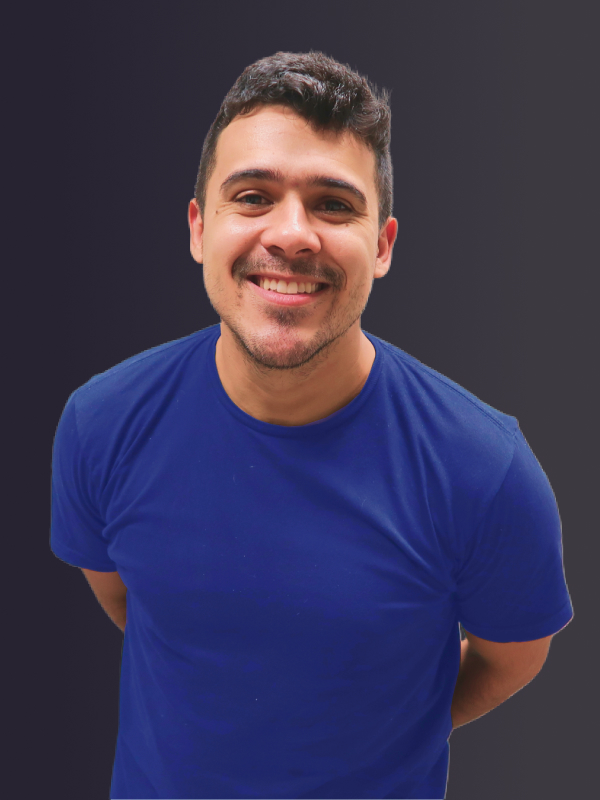
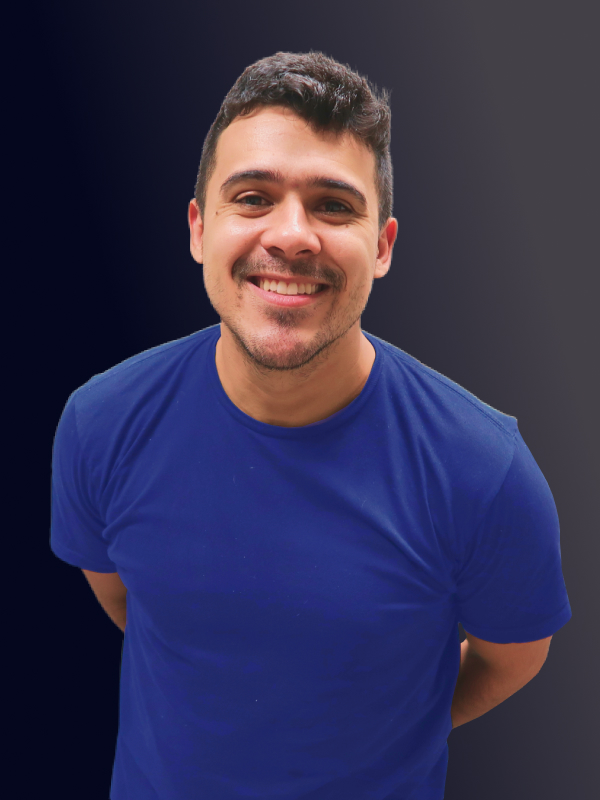
Update effects in profile pic

diff --git a/site/assets/css/styles.css b/site/assets/css/styles.css
@@ -1,1 +1,1 @@
-*{margin:0;padding:0;text-decoration:none;list-style-type:none}.primary{color:#03061b}.primary-lighten{color:#28307c}.secondary{color:#031f7a}.secondary-lighten{color:#0638e0}.silver{color:#fff}.gray{color:#676a87}.dark{color:#123}@font-face{font-family:"Lato";font-style:normal;font-weight:400;font-display:swap;src:local("Lato Regular"),local("Lato-Regular"),url(../images/fonts/S6uyw4BMUTPHjxAwXiWtFCfQ7A.woff2) format("woff2");unicode-range:U+0100-024F,U+0259,U+1E00-1EFF,U+2020,U+20A0-20AB,U+20AD-20CF,U+2113,U+2C60-2C7F,U+A720-A7FF}@font-face{font-family:"Lato";font-style:normal;font-weight:400;font-display:swap;src:local("Lato Regular"),local("Lato-Regular"),url(../images/fonts/S6uyw4BMUTPHjx4wXiWtFCc.woff2) format("woff2");unicode-range:U+0000-00FF,U+0131,U+0152-0153,U+02BB-02BC,U+02C6,U+02DA,U+02DC,U+2000-206F,U+2074,U+20AC,U+2122,U+2191,U+2193,U+2212,U+2215,U+FEFF,U+FFFD}@font-face{font-family:"Lato";font-style:normal;font-weight:700;font-display:swap;src:local("Lato Bold"),local("Lato-Bold"),url(../images/fonts/S6u9w4BMUTPHh6UVSwaPGQ3q5d0N7w.woff2) format("woff2");unicode-range:U+0100-024F,U+0259,U+1E00-1EFF,U+2020,U+20A0-20AB,U+20AD-20CF,U+2113,U+2C60-2C7F,U+A720-A7FF}@font-face{font-family:"Lato";font-style:normal;font-weight:700;font-display:swap;src:local("Lato Bold"),local("Lato-Bold"),url(../images/fonts/S6u9w4BMUTPHh6UVSwiPGQ3q5d0.woff2) format("woff2");unicode-range:U+0000-00FF,U+0131,U+0152-0153,U+02BB-02BC,U+02C6,U+02DA,U+02DC,U+2000-206F,U+2074,U+20AC,U+2122,U+2191,U+2193,U+2212,U+2215,U+FEFF,U+FFFD}html,body{font-family:"Lato",sans-serif;font-size:10px;font-weight:400;line-height:3.6em;letter-spacing:1px;color:#03061b}html *,body *{font-family:"Lato",sans-serif}h1,h2,h3,h4,h5,h6{margin:0 0 .3rem;font-weight:700;color:#03061b}p,li,a{color:#03061b;line-height:1.4em}p,li{margin-bottom:15px}s{text-decoration:line-through}abbr{border-bottom:1px dashed #676a87}a{display:inline-block;position:relative;-webkit-transition:.3s;-moz-transition:.3s;-ms-transition:.3s;-o-transition:.3s;transition:.3s}a i{-webkit-transition:.3s;-moz-transition:.3s;-ms-transition:.3s;-o-transition:.3s;transition:.3s}a.underlined::after{content:"";position:absolute;background:#28307c;top:85%;left:0;width:100%;height:1px;-webkit-transition:.3s;-moz-transition:.3s;-ms-transition:.3s;-o-transition:.3s;transition:.3s}a.underlined:hover::after,a.underlined:focus::after{background:#0638e0;top:90%}nav ul li a:hover i,nav ul li a:hover svg,nav ul li a:focus i,nav ul li a:focus svg{-webkit-transform:scale(1.4) rotate(5deg);-moz-transform:scale(1.4) rotate(5deg);-ms-transform:scale(1.4) rotate(5deg);-o-transform:scale(1.4) rotate(5deg);transform:scale(1.4) rotate(5deg)}h1{font-size:4rem;color:#03061b}h2{font-size:2.4rem;font-weight:300;color:#03061b}h3{font-size:2.4rem;color:#0638e0}h4{font-size:2.2rem}h5{font-size:2rem}h6{font-size:1.8rem}p,li,a{font-size:1.8rem}strong,b{font-weight:700}.btn{position:relative;margin:0 10px;padding:1rem 2rem;display:inline-block;text-align:center;transition:all .1s ease;border-color:#e6e7e9;border-style:dashed;border-width:2px;-webkit-border-radius:6px;-moz-border-radius:6px;-ms-border-radius:6px;-o-border-radius:6px;border-radius:6px}.btn i,.btn svg{-webkit-transition:.3s;-moz-transition:.3s;-ms-transition:.3s;-o-transition:.3s;transition:.3s}.btn:hover,.btn:focus{color:#0638e0}.btn:hover i,.btn:hover svg,.btn:focus i,.btn:focus svg{-webkit-transform:scale(1.4) rotate(10deg);-moz-transform:scale(1.4) rotate(10deg);-ms-transform:scale(1.4) rotate(10deg);-o-transform:scale(1.4) rotate(10deg);transform:scale(1.4) rotate(10deg)}.btn::after{content:"";position:absolute;width:0;bottom:2px;left:50%;margin:0 auto;box-sizing:border-box;transition:all .25s ease}.btn.btn-bordered{border:3px solid #28307c}.btn.btn-block{display:block}.btn.btn-primary{background-color:#03061b}.btn.btn-primary:hover{background-color:#123}.btn.btn-underline::after{border:0;border-bottom-width:1px;border-style:solid;border-color:#28307c;border-color:rgba(255,255,255,.1);z-index:1}.btn.btn-underline::after:hover::after,.btn.btn-underline::after:focus::after{width:100%;left:0}.btn.btn-bullet::before{content:"";background-color:#fff;background-color:rgba(255,255,255,.2);position:absolute;bottom:0;left:50%;width:5px;height:5px;margin:0 0 0 -2px;display:block;z-index:2;border-radius:50%}.btn.active{color:#0c3}.btn.active.btn-underline::after{border-color:#061}.btn.active.btn-bullet ::before{background-color:#0c3}.container{width:980px;max-width:90%;margin:0 auto}.row{margin-bottom:6rem}body{background:#fff}.language-wrapper{display:flex;flex-direction:row;justify-content:center;align-items:center}@media(max-width: 300px){.language-wrapper{flex-direction:column}}.language-wrapper .language-box{margin:0 2%;padding:0;width:48%;max-width:250px;text-align:center;-webkit-box-sizing:border-box;-moz-box-sizing:border-box;-ms-box-sizing:border-box;-o-box-sizing:border-box;box-sizing:border-box}.language-wrapper .language-box .language-item{background:#fff;margin:0;padding:30px;-webkit-box-shadow:0 6px 10px 0px rgba(0,0,0,.05);-moz-box-shadow:0 6px 10px 0px rgba(0,0,0,.05);-ms-box-shadow:0 6px 10px 0px rgba(0,0,0,.05);-o-box-shadow:0 6px 10px 0px rgba(0,0,0,.05);box-shadow:0 6px 10px 0px rgba(0,0,0,.05);-webkit-box-sizing:border-box;-moz-box-sizing:border-box;-ms-box-sizing:border-box;-o-box-sizing:border-box;box-sizing:border-box;-webkit-border-radius:10px;-moz-border-radius:10px;-ms-border-radius:10px;-o-border-radius:10px;border-radius:10px}.language-wrapper .language-box .language-item img{max-width:60px;height:auto;display:block;margin:0 auto}.supbar{width:100%;height:30px;border-bottom:1px solid #fff;background:linear-gradient(to right, #28307C, #03061B)}.supbar .language-wrapper{justify-content:flex-end}.supbar .language-wrapper .language-box{margin:0 5px;width:auto}.supbar .language-wrapper .language-box .language-item{background:none;padding:0 7px;height:30px;overflow:hidden;-webkit-box-shadow:none;-moz-box-shadow:none;-ms-box-shadow:none;-o-box-shadow:none;box-shadow:none;-webkit-border-radius:0;-moz-border-radius:0;-ms-border-radius:0;-o-border-radius:0;border-radius:0}.supbar .language-wrapper .language-box .language-item a .text{display:none}.supbar .language-wrapper .language-box .language-item img{margin-top:2px;width:25px;vertical-align:middle}.supbar .language-wrapper .language-box .language-item.active{background:#fff;background:rgba(255,255,255,.3)}.main-wrapper{width:100%;min-height:100vh}@media(max-width: 600px){.main-wrapper{overflow:hidden}}hr{border-color:rgba(255,255,255,.1);margin:1rem 0 1rem;width:100%;height:150px;position:relative}hr.with-shadow{position:relative;border:0;margin:0;overflow:visible}hr.with-shadow::before,hr.with-shadow::after{content:"";position:absolute;width:130%;height:150px;left:-15%;bottom:50px}hr.with-shadow::before{border:0;border-bottom:10px solid #fff;-webkit-box-sizing:border-box;-moz-box-sizing:border-box;-ms-box-sizing:border-box;-o-box-sizing:border-box;box-sizing:border-box;-webkit-border-radius:50%;-moz-border-radius:50%;-ms-border-radius:50%;-o-border-radius:50%;border-radius:50%}hr.with-shadow::after{-webkit-box-shadow:0 26px 25px 0px rgba(0,0,0,.05);-moz-box-shadow:0 26px 25px 0px rgba(0,0,0,.05);-ms-box-shadow:0 26px 25px 0px rgba(0,0,0,.05);-o-box-shadow:0 26px 25px 0px rgba(0,0,0,.05);box-shadow:0 26px 25px 0px rgba(0,0,0,.05);-webkit-border-radius:50%;-moz-border-radius:50%;-ms-border-radius:50%;-o-border-radius:50%;border-radius:50%}@-webkit-keyframes to-down{0%{opacity:0;-webkit-transform:translate(0px, -50px) scale(0.9)}60%{-webkit-transform:translate(0px, 2.5px) scale(1)}80%{-webkit-transform:translate(0px, -1px) scale(1)}100%{opacity:1;-webkit-transform:translate(0, 0) scale(1)}}@keyframes to-down{0%{transform:translate(0px, -50px) scale(0.9);opacity:0}60%{transform:translate(0px, 2.5px) scale(1)}80%{transform:translate(0px, -1px) scale(1)}100%{transform:translate(0, 0) scale(1);opacity:1}}@-webkit-keyframes to-up{0%{opacity:0;-webkit-transform:translate(0px, 50px) scale(0.9)}60%{-webkit-transform:translate(0px, -2.5px) scale(1)}80%{-webkit-transform:translate(0px, 1px) scale(1)}100%{opacity:1;-webkit-transform:translate(0, 0) scale(1)}}@keyframes to-up{0%{transform:translate(0px, 50px) scale(0.9);opacity:0}60%{transform:translate(0px, -2.5px) scale(1)}80%{transform:translate(0px, 1px) scale(1)}100%{transform:translate(0, 0) scale(1);opacity:1}}@-webkit-keyframes to-left{0%{opacity:0;-webkit-transform:translate(50px, 0px) scale(0.9)}60%{-webkit-transform:translate(-2.5px, 0px) scale(1)}80%{-webkit-transform:translate(1px, 0px) scale(1)}100%{opacity:1;-webkit-transform:translate(0, 0) scale(1)}}@keyframes to-left{0%{transform:translate(50px, 0px) scale(0.9);opacity:0}60%{transform:translate(-2.5px, 0px) scale(1)}80%{transform:translate(1px, 0px) scale(1)}100%{transform:translate(0, 0) scale(1);opacity:1}}@-webkit-keyframes to-right{0%{opacity:0;-webkit-transform:translate(-50px, 0px) scale(0.9)}60%{-webkit-transform:translate(2.5px, 0px) scale(1)}80%{-webkit-transform:translate(-1px, 0px) scale(1)}100%{opacity:1;-webkit-transform:translate(0, 0) scale(1)}}@keyframes to-right{0%{transform:translate(-50px, 0px) scale(0.9);opacity:0}60%{transform:translate(2.5px, 0px) scale(1)}80%{transform:translate(-1px, 0px) scale(1)}100%{transform:translate(0, 0) scale(1);opacity:1}}header{padding:90px 30px 0;overflow:hidden}header .logo{display:inline-block}header .logo img{max-width:100%;animation:to-down 1s ease 1;animation-fill-mode:forwards}header .heading{display:inline-block;vertical-align:top;margin:50px 30px 0}header .heading h1{position:relative;font-weight:bold;animation:to-right 1s ease-in-out 1;animation-fill-mode:forwards;animation-delay:.5s;opacity:0}header .heading h1 span{position:absolute;bottom:152%;left:6%;background:#fff;padding:10px 12px;font-size:1.8rem;font-weight:400;line-height:2.4rem;opacity:0;-webkit-border-radius:10px;-moz-border-radius:10px;-ms-border-radius:10px;-o-border-radius:10px;border-radius:10px;filter:drop-shadow(3px 2px 0px rgba(0, 0, 0, 0.2));animation:to-up .9s ease-in-out 1;animation-fill-mode:forwards;animation-delay:1.6s}header .heading h1 span i{margin-left:10px}header .heading h1 span::after{content:"";position:absolute;top:100%;left:30%;width:0;height:0;border-style:solid;border-width:0 15px 15px 0;border-color:rgba(0,0,0,0) #fff rgba(0,0,0,0) rgba(0,0,0,0)}header .heading .position{animation:to-right 1s ease-in-out 1;animation-fill-mode:forwards;animation-delay:.7s;opacity:0}header nav{margin-top:3rem}header nav ul li{display:inline-block;margin-left:1rem;text-transform:uppercase}header nav ul li:first-child{margin-left:0}.flex{display:flex}.flex-center{justify-content:center}.flex.dir-col{flex-direction:column}.flex.dir-row{flex-direction:row}.flex.end{justify-content:flex-end}.grid{display:grid}.main{padding:5rem 0 0}.main .title{margin-bottom:30px}.main .grid{grid-template:"wel fac" "job art";grid-gap:30px;margin-bottom:30px}.main .grid-item{padding:30px}.main .grid-item.welcome{grid-area:wel}.main .grid-item.facts{grid-area:fac}.main .grid-item.jobs{grid-area:job}.main .grid-item.art{grid-area:art;padding:0;display:flex;position:relative}.main .grid-item.art .image{width:100%;height:100%;border-radius:10px 50px 50px 50px;transition:all 1s}.main .grid-item.art .image{background-size:cover;background-position:top center -100px;background-repeat:no-repeat;filter:grayscale(50%);opacity:.9}.main .grid-item.art .mask{position:absolute;background:#fff;opacity:.3}.main .grid-item.art:hover .image,.main .grid-item.art:hover .mask{border-radius:10px 20px 20px 20px}.main .grid-item.art:hover .image{filter:grayscale(0);opacity:1;background-position:top center}.main .grid-item.art:hover .mask{opacity:.1}.main .grid-item.with-col-divisor{position:relative}.main .grid-item.with-col-divisor:after{content:"";position:absolute;top:0;left:100%;margin-left:15px;width:1px;height:100%;border-right:2px solid #e6e7e9}.main .grid-item.with-row-divisor{position:relative}.main .grid-item.with-row-divisor:before{content:"";position:absolute;left:0;bottom:100%;margin-bottom:15px;width:100%;height:1px;border-top:2px solid #e6e7e9;border-radius:100px}@media(max-width: 960px){.main .grid{grid-template:"wel" "fac" "job" "art";grid-gap:0}.main .grid .with-col-divisor:before,.main .grid .with-col-divisor:after,.main .grid .with-row-divisor:before,.main .grid .with-row-divisor:after{display:none}.main .grid .art{overflow:hidden;width:auto}.main .grid .art .image{width:100%;height:100vw;background-position:top center;margin:10px 10px 30px}.main .grid .grid-item{padding-top:45px;padding-left:15px;padding-right:15px;border-top:2px dashed #e6e7e9}.main .grid .grid-item:first-child{border:0}}.main nav ul{margin:1em 0}.main nav ul li{display:block}.main nav ul li a .list-icon{width:1em;font-size:.8em;display:inline-block;text-align:center;margin-left:30px;margin-right:15px}@media(max-width: 960px){.main nav ul li a .list-icon{margin-left:15px;margin-right:10px}}.main nav ul li a .list-icon svg{-webkit-transition:all linear .2s;-moz-transition:all linear .2s;-ms-transition:all linear .2s;-o-transition:all linear .2s;transition:all linear .2s;color:#676a87;fill:#676a87}.main nav ul li a:hover .list-icon,.main nav ul li a:hover .list-icon svg,.main nav ul li a:focus .list-icon,.main nav ul li a:focus .list-icon svg{color:#0638e0;fill:#0638e0}.main .category::before{content:"// ";color:#0638e0}footer{background:#fff;padding:30px 0 0;text-align:center}footer .title{margin:30px}footer .btn{font-size:2rem;min-width:20px;min-height:20px;line-height:1.6rem;margin:5px 2px;padding:20px;display:inline-block;-webkit-border-radius:40px;-moz-border-radius:40px;-ms-border-radius:40px;-o-border-radius:40px;border-radius:40px}footer .btn span{font-size:1.6rem}footer .flex-three{flex-wrap:wrap}footer .flex-three label{flex:1}footer form{text-align:left}footer form label{margin:0 10px;width:100%}footer form input,footer form select,footer form textarea{-webkit-appearance:none;-moz-appearance:none;appearance:none;margin:0 0 30px;padding:15px 15px;border-color:#e6e7e9;border-style:dashed;border-width:2px;min-height:64px;width:100%;font-size:1.6rem;-webkit-box-sizing:border-box;-moz-box-sizing:border-box;-ms-box-sizing:border-box;-o-box-sizing:border-box;box-sizing:border-box;-webkit-border-radius:32px;-moz-border-radius:32px;-ms-border-radius:32px;-o-border-radius:32px;border-radius:32px;-webkit-transition:.3s all;-moz-transition:.3s all;-ms-transition:.3s all;-o-transition:.3s all;transition:.3s all}footer form input:hover,footer form input:focus,footer form select:hover,footer form select:focus,footer form textarea:hover,footer form textarea:focus{outline:none}footer form input:hover,footer form select:hover,footer form textarea:hover{border-color:#28307c}footer form input:focus,footer form select:focus,footer form textarea:focus{border-color:#03061b}footer form textarea{height:180px}footer form button.btn{-webkit-appearance:none;-moz-appearance:none;appearance:none;background:#e6e7e9;color:#123;padding-left:30px;padding-right:30px;text-transform:uppercase;border:0;font-weight:700;font-size:1.8rem;letter-spacing:2px;cursor:pointer;-webkit-transition:.3s all;-moz-transition:.3s all;-ms-transition:.3s all;-o-transition:.3s all;transition:.3s all}footer form button.btn:hover,footer form button.btn:focus{background:#123;color:#fff}footer .copyright{padding:30px 0;background:#123}footer .copyright p{color:#fff}@media(max-width: 800px){header{text-align:center}header .flex{flex-direction:column}header .logo{margin:0 auto}header .heading{margin-top:60px}header .heading h1>span{left:25%}footer .flex-three label{flex:1 1 auto}}@media(max-width: 600px){html,body{font-size:8px;letter-spacing:.5px}header{padding:90px 0 0;text-align:center}header .logo{margin:0 auto}.main{padding-top:0}.main .bio ul li,.main .bio ol li{margin:10px 0}footer .title{font-size:2.4rem}footer .btn{font-size:2.2rem;line-height:2rem}footer .btn span{font-size:2rem}}@media(max-width: 480px){header .heading{margin-left:0;margin-right:0}header .heading h2{font-size:2rem}}
+*{margin:0;padding:0;text-decoration:none;list-style-type:none}.primary{color:#03061b}.primary-lighten{color:#28307c}.secondary{color:#031f7a}.secondary-lighten{color:#0638e0}.silver{color:#fff}.gray{color:#676a87}.dark{color:#123}@font-face{font-family:"Lato";font-style:normal;font-weight:400;font-display:swap;src:local("Lato Regular"),local("Lato-Regular"),url(../images/fonts/S6uyw4BMUTPHjxAwXiWtFCfQ7A.woff2) format("woff2");unicode-range:U+0100-024F,U+0259,U+1E00-1EFF,U+2020,U+20A0-20AB,U+20AD-20CF,U+2113,U+2C60-2C7F,U+A720-A7FF}@font-face{font-family:"Lato";font-style:normal;font-weight:400;font-display:swap;src:local("Lato Regular"),local("Lato-Regular"),url(../images/fonts/S6uyw4BMUTPHjx4wXiWtFCc.woff2) format("woff2");unicode-range:U+0000-00FF,U+0131,U+0152-0153,U+02BB-02BC,U+02C6,U+02DA,U+02DC,U+2000-206F,U+2074,U+20AC,U+2122,U+2191,U+2193,U+2212,U+2215,U+FEFF,U+FFFD}@font-face{font-family:"Lato";font-style:normal;font-weight:700;font-display:swap;src:local("Lato Bold"),local("Lato-Bold"),url(../images/fonts/S6u9w4BMUTPHh6UVSwaPGQ3q5d0N7w.woff2) format("woff2");unicode-range:U+0100-024F,U+0259,U+1E00-1EFF,U+2020,U+20A0-20AB,U+20AD-20CF,U+2113,U+2C60-2C7F,U+A720-A7FF}@font-face{font-family:"Lato";font-style:normal;font-weight:700;font-display:swap;src:local("Lato Bold"),local("Lato-Bold"),url(../images/fonts/S6u9w4BMUTPHh6UVSwiPGQ3q5d0.woff2) format("woff2");unicode-range:U+0000-00FF,U+0131,U+0152-0153,U+02BB-02BC,U+02C6,U+02DA,U+02DC,U+2000-206F,U+2074,U+20AC,U+2122,U+2191,U+2193,U+2212,U+2215,U+FEFF,U+FFFD}html,body{font-family:"Lato",sans-serif;font-size:10px;font-weight:400;line-height:3.6em;letter-spacing:1px;color:#03061b}html *,body *{font-family:"Lato",sans-serif}h1,h2,h3,h4,h5,h6{margin:0 0 .3rem;font-weight:700;color:#03061b}p,li,a{color:#03061b;line-height:1.4em}p,li{margin-bottom:15px}s{text-decoration:line-through}abbr{border-bottom:1px dashed #676a87}a{display:inline-block;position:relative;-webkit-transition:.3s;-moz-transition:.3s;-ms-transition:.3s;-o-transition:.3s;transition:.3s}a i{-webkit-transition:.3s;-moz-transition:.3s;-ms-transition:.3s;-o-transition:.3s;transition:.3s}a.underlined::after{content:"";position:absolute;background:#28307c;top:85%;left:0;width:100%;height:1px;-webkit-transition:.3s;-moz-transition:.3s;-ms-transition:.3s;-o-transition:.3s;transition:.3s}a.underlined:hover::after,a.underlined:focus::after{background:#0638e0;top:90%}nav ul li a:hover i,nav ul li a:hover svg,nav ul li a:focus i,nav ul li a:focus svg{-webkit-transform:scale(1.4) rotate(5deg);-moz-transform:scale(1.4) rotate(5deg);-ms-transform:scale(1.4) rotate(5deg);-o-transform:scale(1.4) rotate(5deg);transform:scale(1.4) rotate(5deg)}h1{font-size:4rem;color:#03061b}h2{font-size:2.4rem;font-weight:300;color:#03061b}h3{font-size:2.4rem;color:#0638e0}h4{font-size:2.2rem}h5{font-size:2rem}h6{font-size:1.8rem}p,li,a{font-size:1.8rem}strong,b{font-weight:700}.btn{position:relative;margin:0 10px;padding:1rem 2rem;display:inline-block;text-align:center;transition:all .1s ease;border-color:#e6e7e9;border-style:dashed;border-width:2px;-webkit-border-radius:6px;-moz-border-radius:6px;-ms-border-radius:6px;-o-border-radius:6px;border-radius:6px}.btn i,.btn svg{-webkit-transition:.3s;-moz-transition:.3s;-ms-transition:.3s;-o-transition:.3s;transition:.3s}.btn:hover,.btn:focus{color:#0638e0}.btn:hover i,.btn:hover svg,.btn:focus i,.btn:focus svg{-webkit-transform:scale(1.4) rotate(10deg);-moz-transform:scale(1.4) rotate(10deg);-ms-transform:scale(1.4) rotate(10deg);-o-transform:scale(1.4) rotate(10deg);transform:scale(1.4) rotate(10deg)}.btn::after{content:"";position:absolute;width:0;bottom:2px;left:50%;margin:0 auto;box-sizing:border-box;transition:all .25s ease}.btn.btn-bordered{border:3px solid #28307c}.btn.btn-block{display:block}.btn.btn-primary{background-color:#03061b}.btn.btn-primary:hover{background-color:#123}.btn.btn-underline::after{border:0;border-bottom-width:1px;border-style:solid;border-color:#28307c;border-color:rgba(255,255,255,.1);z-index:1}.btn.btn-underline::after:hover::after,.btn.btn-underline::after:focus::after{width:100%;left:0}.btn.btn-bullet::before{content:"";background-color:#fff;background-color:rgba(255,255,255,.2);position:absolute;bottom:0;left:50%;width:5px;height:5px;margin:0 0 0 -2px;display:block;z-index:2;border-radius:50%}.btn.active{color:#0c3}.btn.active.btn-underline::after{border-color:#061}.btn.active.btn-bullet ::before{background-color:#0c3}.container{width:980px;max-width:90%;margin:0 auto}.row{margin-bottom:6rem}body{background:#fff}.language-wrapper{display:flex;flex-direction:row;justify-content:center;align-items:center}@media(max-width: 300px){.language-wrapper{flex-direction:column}}.language-wrapper .language-box{margin:0 2%;padding:0;width:48%;max-width:250px;text-align:center;-webkit-box-sizing:border-box;-moz-box-sizing:border-box;-ms-box-sizing:border-box;-o-box-sizing:border-box;box-sizing:border-box}.language-wrapper .language-box .language-item{background:#fff;margin:0;padding:30px;-webkit-box-shadow:0 6px 10px 0px rgba(0,0,0,.05);-moz-box-shadow:0 6px 10px 0px rgba(0,0,0,.05);-ms-box-shadow:0 6px 10px 0px rgba(0,0,0,.05);-o-box-shadow:0 6px 10px 0px rgba(0,0,0,.05);box-shadow:0 6px 10px 0px rgba(0,0,0,.05);-webkit-box-sizing:border-box;-moz-box-sizing:border-box;-ms-box-sizing:border-box;-o-box-sizing:border-box;box-sizing:border-box;-webkit-border-radius:10px;-moz-border-radius:10px;-ms-border-radius:10px;-o-border-radius:10px;border-radius:10px}.language-wrapper .language-box .language-item img{max-width:60px;height:auto;display:block;margin:0 auto}.supbar{width:100%;height:30px;border-bottom:1px solid #fff;background:linear-gradient(to right, #28307C, #03061B)}.supbar .language-wrapper{justify-content:flex-end}.supbar .language-wrapper .language-box{margin:0 5px;width:auto}.supbar .language-wrapper .language-box .language-item{background:none;padding:0 7px;height:30px;overflow:hidden;-webkit-box-shadow:none;-moz-box-shadow:none;-ms-box-shadow:none;-o-box-shadow:none;box-shadow:none;-webkit-border-radius:0;-moz-border-radius:0;-ms-border-radius:0;-o-border-radius:0;border-radius:0}.supbar .language-wrapper .language-box .language-item a .text{display:none}.supbar .language-wrapper .language-box .language-item img{margin-top:2px;width:25px;vertical-align:middle}.supbar .language-wrapper .language-box .language-item.active{background:#fff;background:rgba(255,255,255,.3)}.main-wrapper{width:100%;min-height:100vh}@media(max-width: 600px){.main-wrapper{overflow:hidden}}hr{border-color:rgba(255,255,255,.1);margin:1rem 0 1rem;width:100%;height:150px;position:relative}hr.with-shadow{position:relative;border:0;margin:0;overflow:visible}hr.with-shadow::before,hr.with-shadow::after{content:"";position:absolute;width:130%;height:150px;left:-15%;bottom:50px}hr.with-shadow::before{border:0;border-bottom:10px solid #fff;-webkit-box-sizing:border-box;-moz-box-sizing:border-box;-ms-box-sizing:border-box;-o-box-sizing:border-box;box-sizing:border-box;-webkit-border-radius:50%;-moz-border-radius:50%;-ms-border-radius:50%;-o-border-radius:50%;border-radius:50%}hr.with-shadow::after{-webkit-box-shadow:0 26px 25px 0px rgba(0,0,0,.05);-moz-box-shadow:0 26px 25px 0px rgba(0,0,0,.05);-ms-box-shadow:0 26px 25px 0px rgba(0,0,0,.05);-o-box-shadow:0 26px 25px 0px rgba(0,0,0,.05);box-shadow:0 26px 25px 0px rgba(0,0,0,.05);-webkit-border-radius:50%;-moz-border-radius:50%;-ms-border-radius:50%;-o-border-radius:50%;border-radius:50%}@-webkit-keyframes to-down{0%{opacity:0;-webkit-transform:translate(0px, -50px) scale(0.9)}60%{-webkit-transform:translate(0px, 2.5px) scale(1)}80%{-webkit-transform:translate(0px, -1px) scale(1)}100%{opacity:1;-webkit-transform:translate(0, 0) scale(1)}}@keyframes to-down{0%{transform:translate(0px, -50px) scale(0.9);opacity:0}60%{transform:translate(0px, 2.5px) scale(1)}80%{transform:translate(0px, -1px) scale(1)}100%{transform:translate(0, 0) scale(1);opacity:1}}@-webkit-keyframes to-up{0%{opacity:0;-webkit-transform:translate(0px, 50px) scale(0.9)}60%{-webkit-transform:translate(0px, -2.5px) scale(1)}80%{-webkit-transform:translate(0px, 1px) scale(1)}100%{opacity:1;-webkit-transform:translate(0, 0) scale(1)}}@keyframes to-up{0%{transform:translate(0px, 50px) scale(0.9);opacity:0}60%{transform:translate(0px, -2.5px) scale(1)}80%{transform:translate(0px, 1px) scale(1)}100%{transform:translate(0, 0) scale(1);opacity:1}}@-webkit-keyframes to-left{0%{opacity:0;-webkit-transform:translate(50px, 0px) scale(0.9)}60%{-webkit-transform:translate(-2.5px, 0px) scale(1)}80%{-webkit-transform:translate(1px, 0px) scale(1)}100%{opacity:1;-webkit-transform:translate(0, 0) scale(1)}}@keyframes to-left{0%{transform:translate(50px, 0px) scale(0.9);opacity:0}60%{transform:translate(-2.5px, 0px) scale(1)}80%{transform:translate(1px, 0px) scale(1)}100%{transform:translate(0, 0) scale(1);opacity:1}}@-webkit-keyframes to-right{0%{opacity:0;-webkit-transform:translate(-50px, 0px) scale(0.9)}60%{-webkit-transform:translate(2.5px, 0px) scale(1)}80%{-webkit-transform:translate(-1px, 0px) scale(1)}100%{opacity:1;-webkit-transform:translate(0, 0) scale(1)}}@keyframes to-right{0%{transform:translate(-50px, 0px) scale(0.9);opacity:0}60%{transform:translate(2.5px, 0px) scale(1)}80%{transform:translate(-1px, 0px) scale(1)}100%{transform:translate(0, 0) scale(1);opacity:1}}header{padding:90px 30px 0;overflow:hidden}header .logo{display:inline-block}header .logo img{max-width:100%;animation:to-down 1s ease 1;animation-fill-mode:forwards}header .heading{display:inline-block;vertical-align:top;margin:50px 30px 0}header .heading h1{position:relative;font-weight:bold;animation:to-right 1s ease-in-out 1;animation-fill-mode:forwards;animation-delay:.5s;opacity:0}header .heading h1 span{position:absolute;bottom:152%;left:6%;background:#fff;padding:10px 12px;font-size:1.8rem;font-weight:400;line-height:2.4rem;opacity:0;-webkit-border-radius:10px;-moz-border-radius:10px;-ms-border-radius:10px;-o-border-radius:10px;border-radius:10px;filter:drop-shadow(3px 2px 0px rgba(0, 0, 0, 0.2));animation:to-up .9s ease-in-out 1;animation-fill-mode:forwards;animation-delay:1.6s}header .heading h1 span i{margin-left:10px}header .heading h1 span::after{content:"";position:absolute;top:100%;left:30%;width:0;height:0;border-style:solid;border-width:0 15px 15px 0;border-color:rgba(0,0,0,0) #fff rgba(0,0,0,0) rgba(0,0,0,0)}header .heading .position{animation:to-right 1s ease-in-out 1;animation-fill-mode:forwards;animation-delay:.7s;opacity:0}header nav{margin-top:3rem}header nav ul li{display:inline-block;margin-left:1rem;text-transform:uppercase}header nav ul li:first-child{margin-left:0}.flex{display:flex}.flex-center{justify-content:center}.flex.dir-col{flex-direction:column}.flex.dir-row{flex-direction:row}.flex.end{justify-content:flex-end}.grid{display:grid}.main{padding:5rem 0 0}.main .title{margin-bottom:30px}.main .grid{grid-template:"wel fac" "job art";grid-gap:30px;margin-bottom:30px}.main .grid-item{padding:30px}.main .grid-item.welcome{grid-area:wel}.main .grid-item.facts{grid-area:fac}.main .grid-item.jobs{grid-area:job}.main .grid-item.art{grid-area:art;border-radius:16px;padding:0;display:flex;position:relative}.main .grid-item.art .image{width:100%;height:100%;border-radius:32px;transition:all .6s;background-size:cover;background-position:top center;background-repeat:no-repeat;filter:contrast(0.8) drop-shadow(0 0 16px rgba(3, 6, 27, 0.3));transform:scale(0.9)}.main .grid-item.art:hover .image{filter:contrast(1) drop-shadow(0 0 160px #03061B);transform:scale(1);border-radius:16px}.main .grid-item.with-col-divisor{position:relative}.main .grid-item.with-col-divisor:after{content:"";position:absolute;top:0;left:100%;margin-left:15px;width:1px;height:100%;border-right:2px solid #e6e7e9}.main .grid-item.with-row-divisor{position:relative}.main .grid-item.with-row-divisor:before{content:"";position:absolute;left:0;bottom:100%;margin-bottom:15px;width:100%;height:1px;border-top:2px solid #e6e7e9;border-radius:100px}@media(max-width: 960px){.main .grid{grid-template:"wel" "fac" "job" "art";grid-gap:0}.main .grid .with-col-divisor:before,.main .grid .with-col-divisor:after,.main .grid .with-row-divisor:before,.main .grid .with-row-divisor:after{display:none}.main .grid .art{overflow:hidden;width:auto}.main .grid .art .image{width:100%;height:100vw;background-position:top center;margin:10px 10px 30px}.main .grid .grid-item{padding-top:45px;padding-left:15px;padding-right:15px;border-top:2px dashed #e6e7e9}.main .grid .grid-item:first-child{border:0}}.main nav ul{margin:1em 0}.main nav ul li{display:block}.main nav ul li a .list-icon{width:1em;font-size:.8em;display:inline-block;text-align:center;margin-left:30px;margin-right:15px}@media(max-width: 960px){.main nav ul li a .list-icon{margin-left:15px;margin-right:10px}}.main nav ul li a .list-icon svg{-webkit-transition:all linear .2s;-moz-transition:all linear .2s;-ms-transition:all linear .2s;-o-transition:all linear .2s;transition:all linear .2s;color:#676a87;fill:#676a87}.main nav ul li a:hover,.main nav ul li a:focus{color:#0638e0}.main nav ul li a:hover .list-icon,.main nav ul li a:hover .list-icon svg,.main nav ul li a:focus .list-icon,.main nav ul li a:focus .list-icon svg{color:#0638e0;fill:#0638e0}.main .category::before{content:"// ";color:#0638e0}footer{background:#fff;padding:30px 0 0;text-align:center}footer .title{margin:30px}footer .btn{font-size:2rem;min-width:20px;min-height:20px;line-height:1.6rem;margin:5px 2px;padding:20px;display:inline-block;-webkit-border-radius:40px;-moz-border-radius:40px;-ms-border-radius:40px;-o-border-radius:40px;border-radius:40px}footer .btn span{font-size:1.6rem}footer .flex-three{flex-wrap:wrap}footer .flex-three label{flex:1}footer form{text-align:left}footer form label{margin:0 10px;width:100%}footer form input,footer form select,footer form textarea{-webkit-appearance:none;-moz-appearance:none;appearance:none;margin:0 0 30px;padding:15px 15px;border-color:#e6e7e9;border-style:dashed;border-width:2px;min-height:64px;width:100%;font-size:1.6rem;-webkit-box-sizing:border-box;-moz-box-sizing:border-box;-ms-box-sizing:border-box;-o-box-sizing:border-box;box-sizing:border-box;-webkit-border-radius:32px;-moz-border-radius:32px;-ms-border-radius:32px;-o-border-radius:32px;border-radius:32px;-webkit-transition:.3s all;-moz-transition:.3s all;-ms-transition:.3s all;-o-transition:.3s all;transition:.3s all}footer form input:hover,footer form input:focus,footer form select:hover,footer form select:focus,footer form textarea:hover,footer form textarea:focus{outline:none}footer form input:hover,footer form select:hover,footer form textarea:hover{border-color:#28307c}footer form input:focus,footer form select:focus,footer form textarea:focus{border-color:#03061b}footer form textarea{height:180px}footer form button.btn{-webkit-appearance:none;-moz-appearance:none;appearance:none;background:#e6e7e9;color:#123;padding-left:30px;padding-right:30px;text-transform:uppercase;border:0;font-weight:700;font-size:1.8rem;letter-spacing:2px;cursor:pointer;-webkit-transition:.3s all;-moz-transition:.3s all;-ms-transition:.3s all;-o-transition:.3s all;transition:.3s all}footer form button.btn:hover,footer form button.btn:focus{background:#123;color:#fff}footer .copyright{padding:30px 0;background:#123}footer .copyright p{color:#fff}@media(max-width: 800px){header{text-align:center}header .flex{flex-direction:column}header .logo{margin:0 auto}header .heading{margin-top:60px}header .heading h1>span{left:25%}footer .flex-three label{flex:1 1 auto}}@media(max-width: 600px){html,body{font-size:8px;letter-spacing:.5px}header{padding:90px 0 0;text-align:center}header .logo{margin:0 auto}.main{padding-top:0}.main .bio ul li,.main .bio ol li{margin:10px 0}footer .title{font-size:2.4rem}footer .btn{font-size:2.2rem;line-height:2rem}footer .btn span{font-size:2rem}}@media(max-width: 480px){header .heading{margin-left:0;margin-right:0}header .heading h2{font-size:2rem}}

diff --git a/src/sass/_romulo.sass b/src/sass/_romulo.sass
@@ -249,7 +249,8 @@ header
 				grid-area: job
 			&.art
 				grid-area: art
-				
+				// background: $primary
+				border-radius: 16px				
 				padding: 0
 				display: flex
 				position: relative
@@ -257,27 +258,19 @@ header
 				.image
 					width: 100%
 					height: 100%
-					border-radius: 10px 50px 50px 50px
-					transition: all 1s
-				.image
+					border-radius: 32px
+					transition: all 0.6s
 					background-size: cover
-					background-position: top center -100px
+					background-position: top center
 					background-repeat: no-repeat
-					filter: grayscale(50%)
-					opacity: .9
-				.mask
-					position: absolute
-					background: $silver
-					opacity: .3
+					filter: contrast(0.8) drop-shadow(0 0 16px rgba($primary, 30%))
+					transform: scale(0.9)
+					// border: 1px solid $primary
 				&:hover
-					.image, .mask
-						border-radius: 10px 20px 20px 20px
 					.image
-						filter: grayscale(0)
-						opacity: 1
-						background-position: top center
-					.mask
-						opacity: 0.1
+						filter: contrast(1) drop-shadow(0 0 160px $primary)
+						transform: scale(1)
+						border-radius: 16px
 
 			&.with-col-divisor
 				position: relative
@@ -355,6 +348,7 @@ header
 					
 					&:hover,
 					&:focus
+						color: $secondary-lighten
 						.list-icon, .list-icon svg
 							color: $secondary-lighten
 							fill: $secondary-lighten
